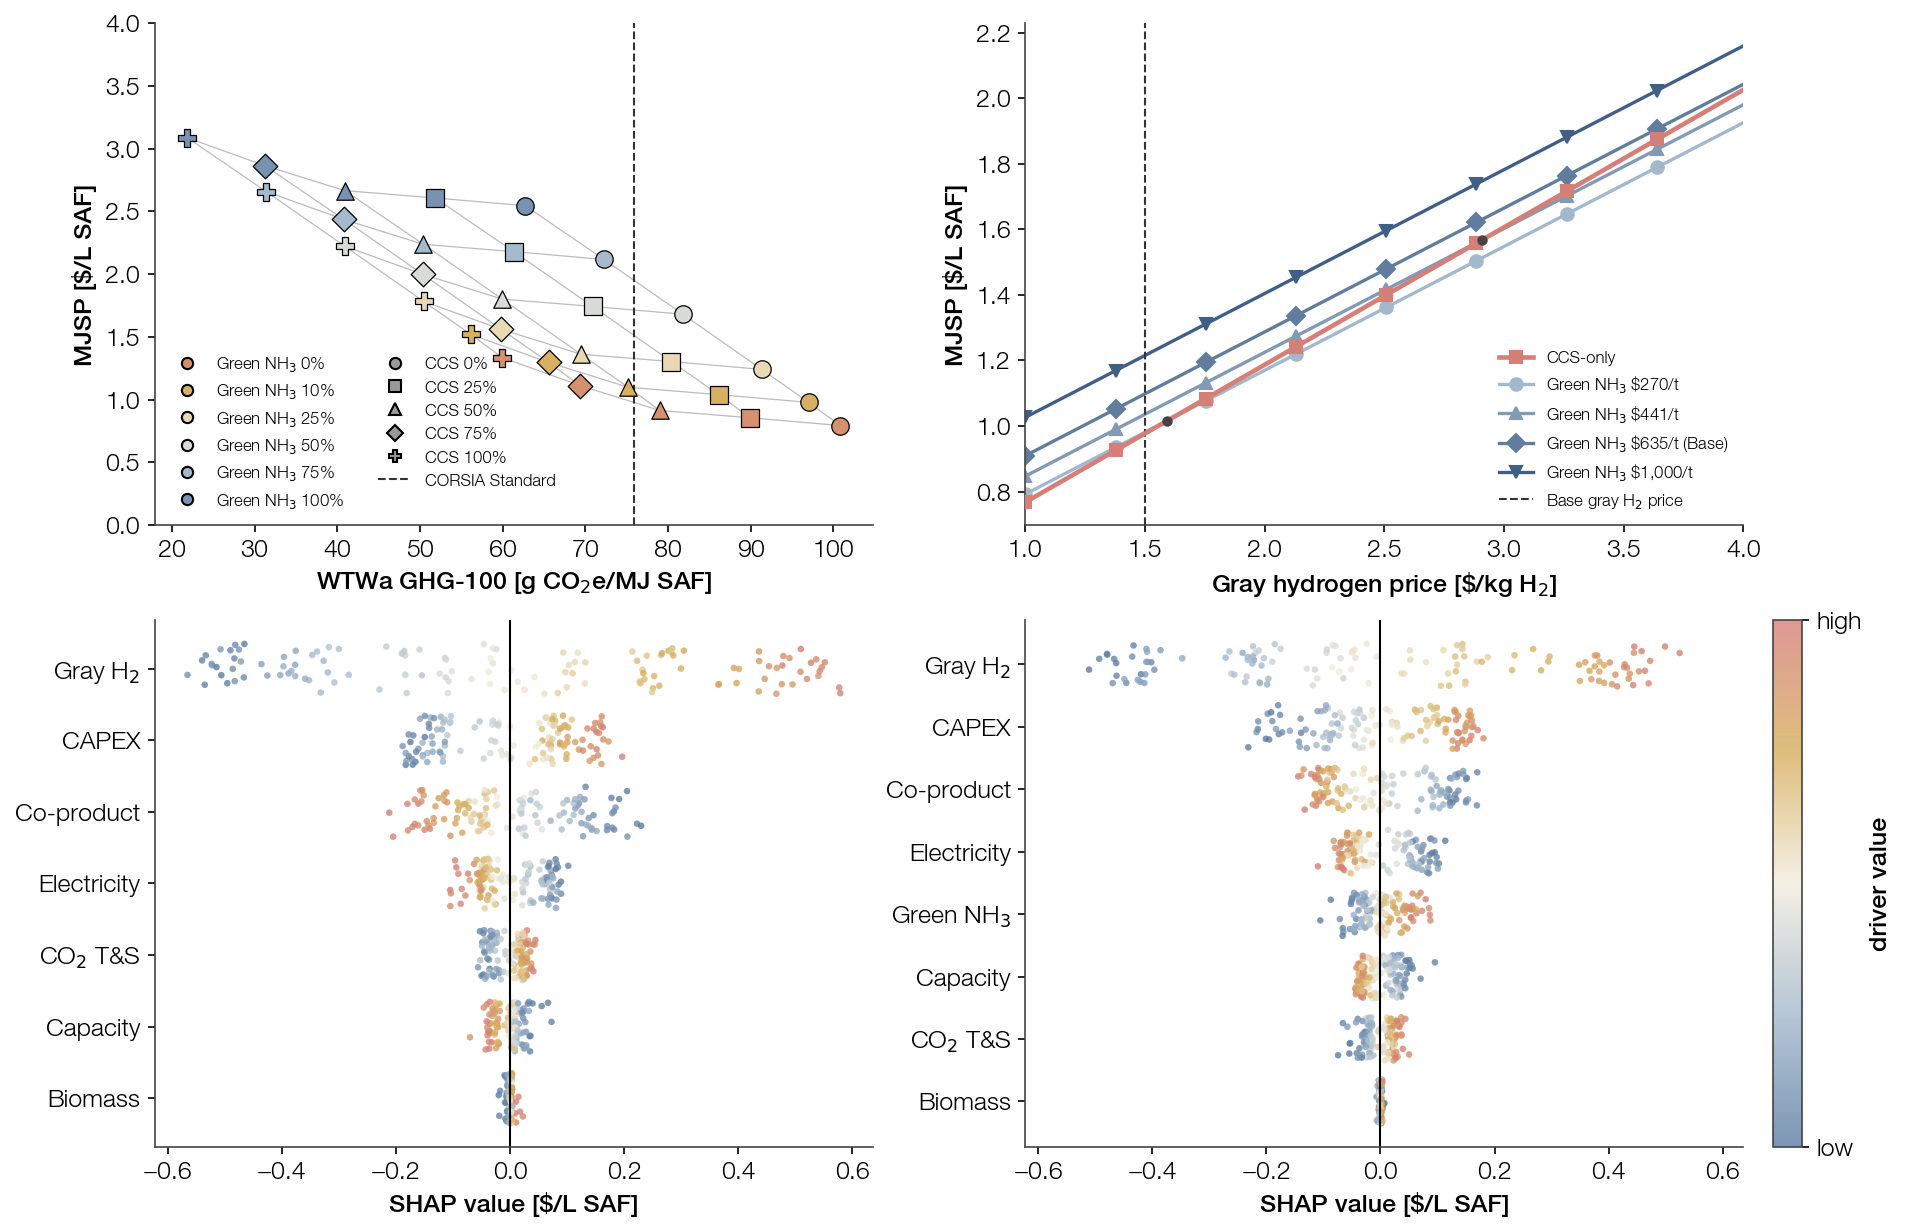
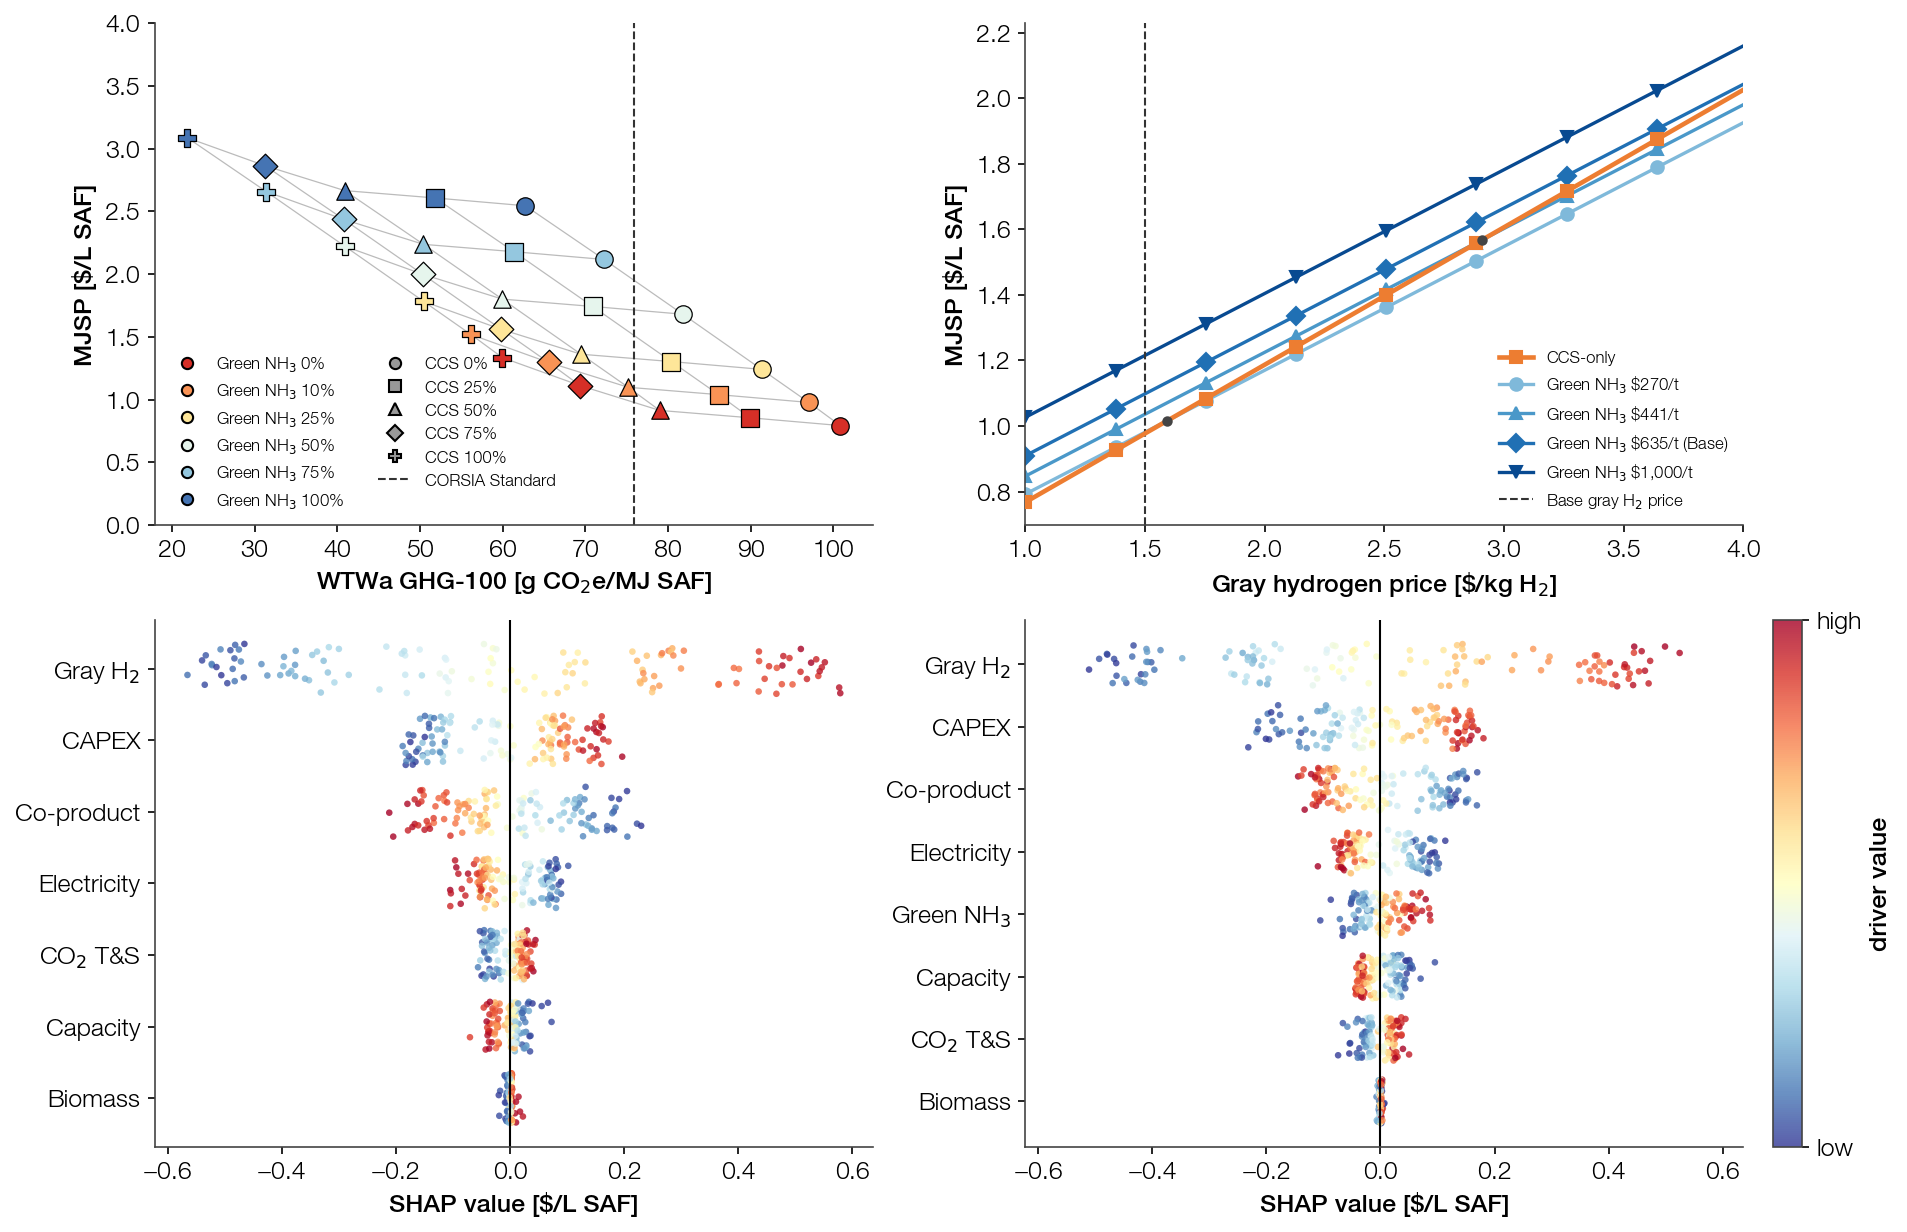
@ Revert muted palette on pareto/crossover/SHAP composite (undo 23afe86)
Claude-Session: https://claude.ai/code/session_01MYsf3gSGEB8YVrZG3DZxkz

diff --git a/plot_ammonia_crossover.py b/plot_ammonia_crossover.py
@@ -62,14 +62,12 @@ h = np.linspace(H2_RANGE[0], H2_RANGE[1], 200)
 def draw(ax: plt.Axes) -> None:
     """Draw the crossover panel on ax (shared by this script and plot_composite.py)."""
     # CCS-only reference line (no ammonia; steeper in grey H2)
-    ax.plot(h, mjsp_ccs(h), color='#D57F78', lw=2.2, marker='s', ms=6, markevery=25, zorder=3,
+    ax.plot(h, mjsp_ccs(h), color='#ed7d31', lw=2.2, marker='s', ms=6, markevery=25, zorder=3,
             label='CCS-only')
 
     # one NH3 line per ammonia price; blue shades go light (cheap) -> dark (dear),
     # a distinct marker shape per line so series read apart from colour alone
-    # muted slate blues (toned to the scale-up palette) instead of plt.cm.Blues
-    blues = plt.matplotlib.colors.LinearSegmentedColormap.from_list(
-        'slate', ['#A3B8CC', '#3F5F86'])(np.linspace(0, 1, len(AMM_LINES)))
+    blues = plt.cm.Blues(np.linspace(0.45, 0.9, len(AMM_LINES)))
     nh3_markers = ('o', '^', 'D', 'v')   # one per AMM_LINES entry
     for pa, col, mk in zip(AMM_LINES, blues, nh3_markers):
         ax.plot(h, mjsp_nh3(h, pa), color=col, lw=1.6, marker=mk, ms=6, markevery=25,

diff --git a/tea_pareto_shap.py b/tea_pareto_shap.py
@@ -21,7 +21,7 @@ from sklearn.ensemble import GradientBoostingRegressor
 from funs import TEA
 
 # reuse the analysis' single source of truth for files, style, MJSP model, ranges
-from tea_pareto_front import FS, FA, SA_RC, MUTED_DIV, mix_row, BIO_PRICE_FR
+from tea_pareto_front import FS, FA, SA_RC, mix_row, BIO_PRICE_FR
 from tea_tornado import (H2_RANGE, ELEC_F, COPROD_F, CAPEX_PM, CF_HOURS, TS_RANGE,
                          TS_BASE, AMM_FEED_USD_L, AMM_P_BASE, AMM_PRICE, LB2KG, raw_costs)
 
@@ -109,7 +109,7 @@ def beeswarm(ax, X: np.ndarray, sv: np.ndarray, order: list[str], title: str, se
         span = f.max() - f.min()
         fn = (f - f.min()) / span if span else np.zeros_like(f)   # normalise value to 0..1 for colour
         jit = (rng.random(len(f)) - 0.5) * 0.7            # vertical jitter so dots don't stack
-        sc = ax.scatter(sv[:, j], row + jit, c=fn, cmap=MUTED_DIV, s=10,
+        sc = ax.scatter(sv[:, j], row + jit, c=fn, cmap='RdYlBu_r', s=10,
                         edgecolor='none', alpha=0.8, vmin=0, vmax=1)
     ax.axvline(0, color='k', lw=1)
     ax.set_yticks(range(len(order)))

diff --git a/plot_pareto_from_xlsx.py b/plot_pareto_from_xlsx.py
@@ -6,13 +6,13 @@ import numpy as np
 import pandas as pd
 import matplotlib.pyplot as plt
 from funs_lca import get_WTWa_conventional
-from tea_pareto_front import SA_RC, MUTED_DIV, AMM_SCALES, CCS_RATES, MAIN_SCALE, FILE_WTWA
+from tea_pareto_front import SA_RC, AMM_SCALES, CCS_RATES, MAIN_SCALE, FILE_WTWA
 
 
 def draw(ax: plt.Axes) -> pd.DataFrame:
     """Draw the GHG-MJSP mesh panel on ax (shared with plot_composite.py); returns the grid."""
     df = pd.read_excel(os.path.join('Result', 'pareto_front.xlsx'))
-    cmap = MUTED_DIV.reversed()   # 0% NH3 = pink end, 100% = blue end (was RdYlBu)
+    cmap = plt.get_cmap('RdYlBu')
     amm_colors = {s: cmap(x) for s, x in zip(AMM_SCALES, np.linspace(0.1, 0.9, len(AMM_SCALES)))}
     ccs_markers = dict(zip(CCS_RATES, ['o', 's', '^', 'D', 'P']))
 

diff --git a/tea_pareto_front.py b/tea_pareto_front.py
@@ -32,10 +32,6 @@ SA_RC = {
     'legend.edgecolor': '#444444', 'lines.linewidth': 0.7, 'lines.markersize': 3,
     'savefig.dpi': 150, 'savefig.bbox': 'tight', 'savefig.facecolor': 'white',
 }
-# muted diverging map (low blue -> cream -> high pink), toned to the scale-up palette
-# (#D6AE5C / #D57F78) so composite_pareto_crossover_shap matches composite_scale_up_mjsp
-MUTED_DIV = plt.matplotlib.colors.LinearSegmentedColormap.from_list(
-    'muted_div', ['#5B7BA0', '#A3B8CC', '#F1ECDD', '#D6AE5C', '#D57F78'])
 
 MAIN_SCALE = 10                 # main SAF unit fixed at knee-point x10
 AMM_SCALES = [0, 1, 2.5, 5, 7.5, 10]   # ammonia cracker scale
